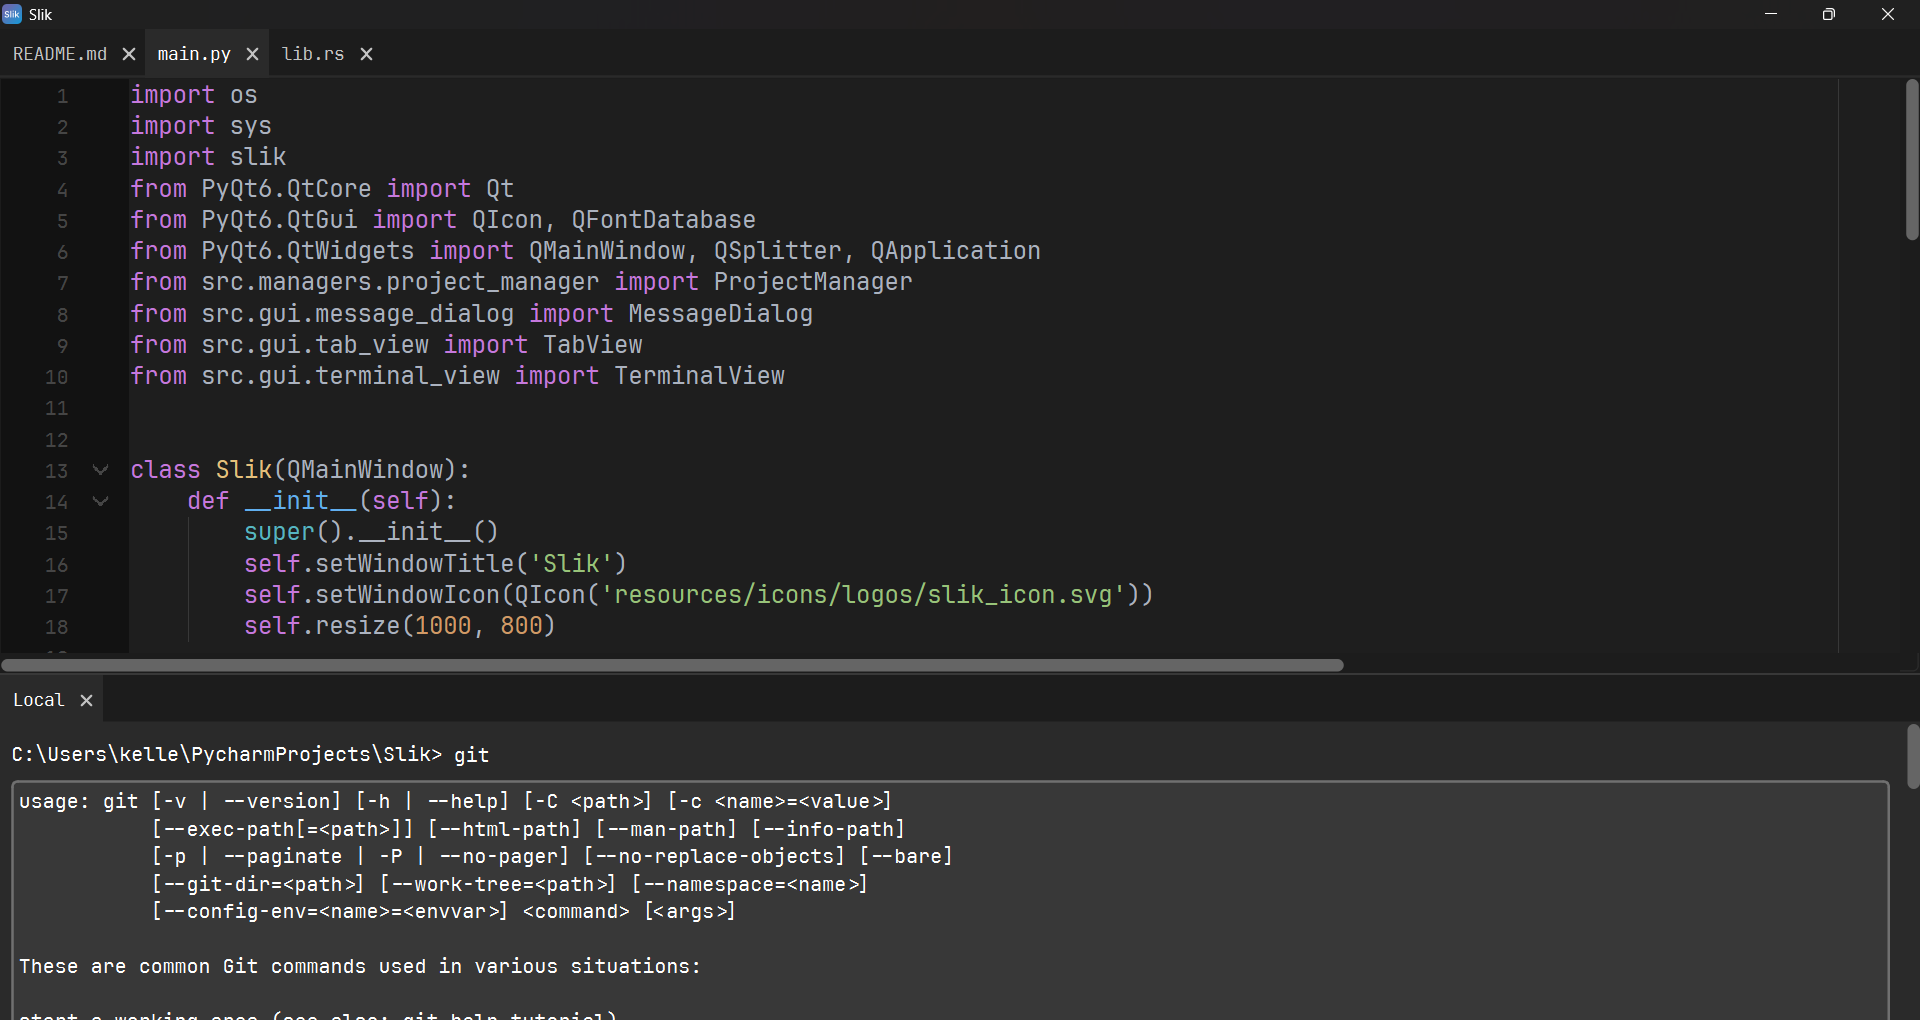
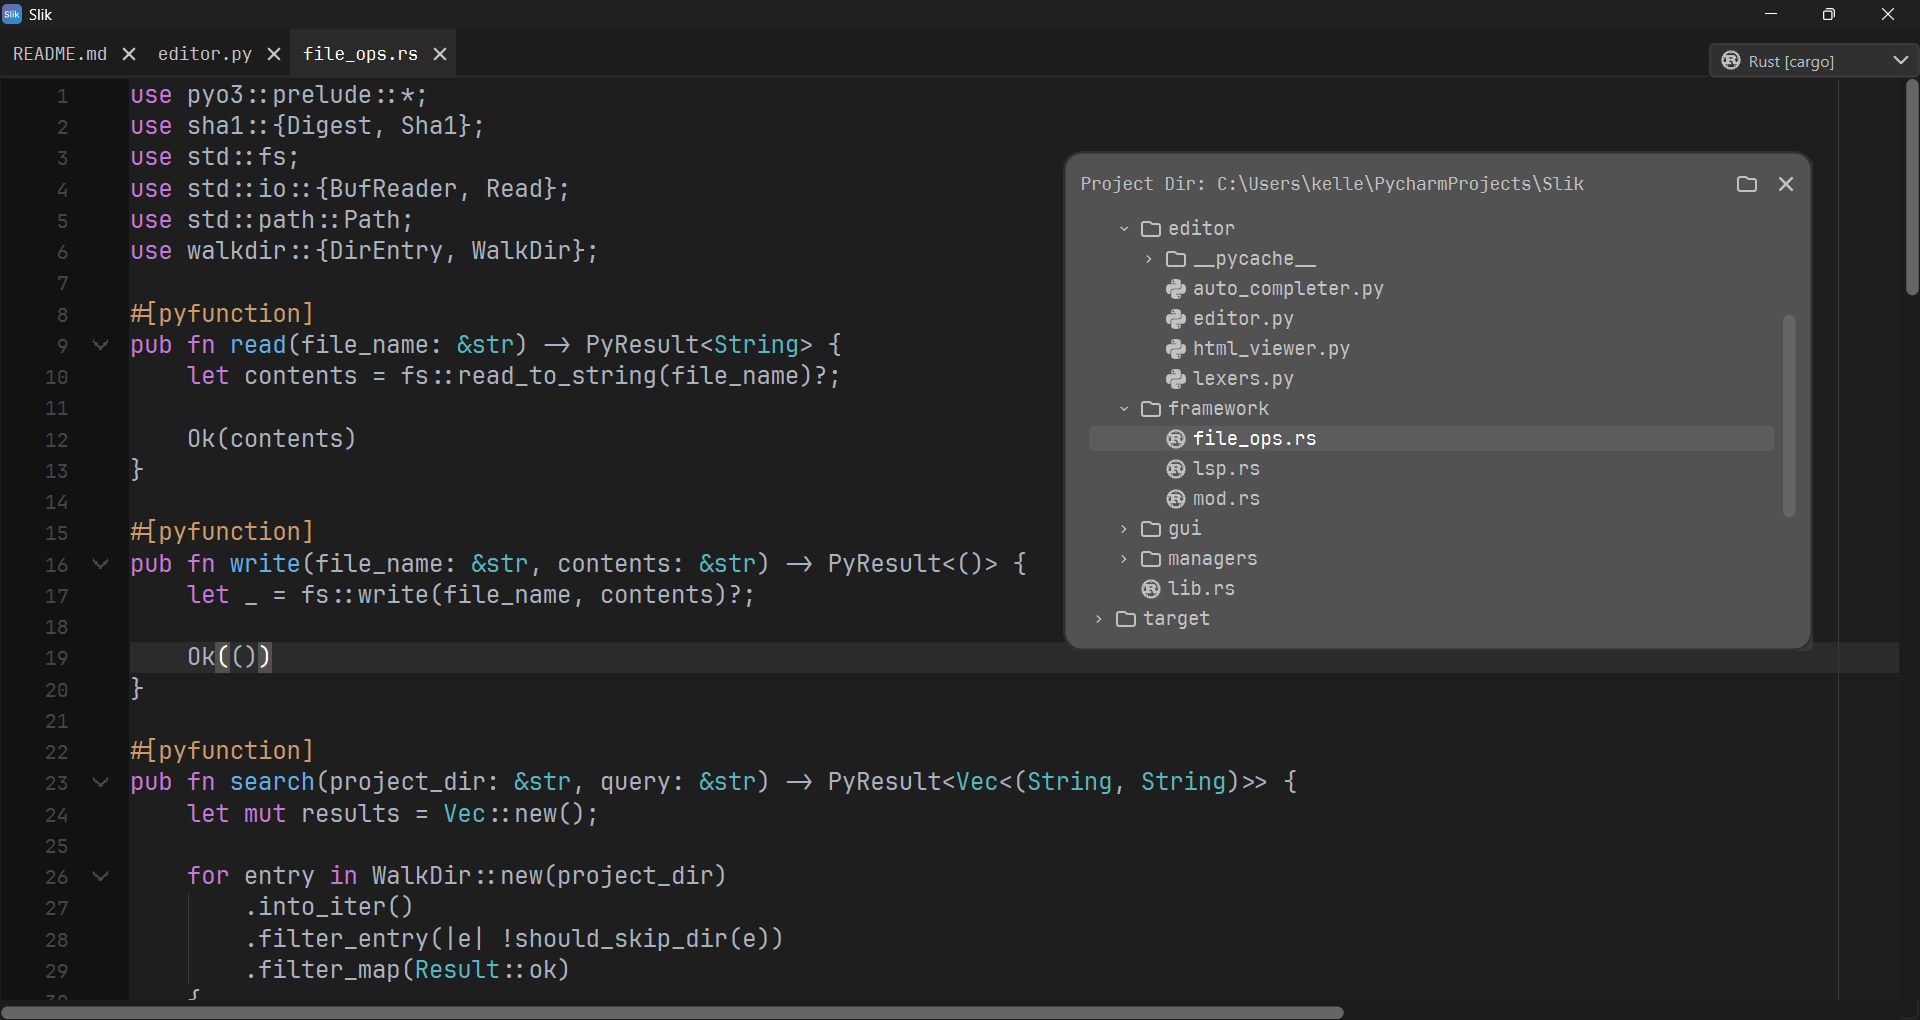
Run Configuring Updates
-added dedicated widget for run configuring

diff --git a/resources/stylesheets/slik_dark.css b/resources/stylesheets/slik_dark.css
@@ -483,6 +483,9 @@ QToolTip {
     background-color: #303030;
 }
 
+#configureBar {
+}
+
 #terminal {
     background-color: #262525;
 }

diff --git a/main.py b/main.py
@@ -4,10 +4,9 @@ import slik
 from PyQt6.QtCore import Qt
 from PyQt6.QtGui import QIcon, QFontDatabase
 from PyQt6.QtWidgets import QMainWindow, QSplitter, QApplication
-
-from managers.terminal_manager import TerminalManager
-from src.gui.run_type_selector import RunTypeSelector
+from src.managers.terminal_manager import TerminalManager
 from src.managers.project_manager import ProjectManager
+from src.gui.configure_bar import ConfigureBar
 from src.gui.message_dialog import MessageDialog
 from src.gui.tab_view import TabView
 
@@ -27,12 +26,11 @@ class Slik(QMainWindow):
         splitter.setOrientation(Qt.Orientation.Vertical)
 
         self.tab_view = TabView(self)
-        self.run_type_selector = RunTypeSelector(self)
-        self.tab_view.setCornerWidget(self.run_type_selector)
+        self.configure_bar = ConfigureBar()
+        self.tab_view.setCornerWidget(self.configure_bar)
 
         self.terminal_manager = TerminalManager()
-
-        self.project_manager = ProjectManager(self.tab_view, self.terminal_manager, self.run_type_selector)
+        self.project_manager = ProjectManager(self.tab_view, self.terminal_manager, self.configure_bar.runTypeSelector())
         self.project_manager.openProject(os.path.abspath('.'))
 
         splitter.addWidget(self.tab_view)

diff --git a/src/gui/configure_bar.py b/src/gui/configure_bar.py
@@ -1,0 +1,20 @@
+from PyQt6.QtWidgets import QWidget, QHBoxLayout
+from src.gui.run_type_selector import RunTypeSelector
+
+
+class ConfigureBar(QWidget):
+    def __init__(self, parent=None):
+        super().__init__(parent)
+        self.setObjectName('configureBar')
+        self.setLayout(QHBoxLayout())
+        self.layout().setContentsMargins(5, 5, 5, 5)
+
+        self.createUI()
+
+    def createUI(self):
+        self._run_type_selector = RunTypeSelector(self)
+
+        self.layout().addWidget(self._run_type_selector)
+
+    def runTypeSelector(self) -> RunTypeSelector:
+        return self._run_type_selector
